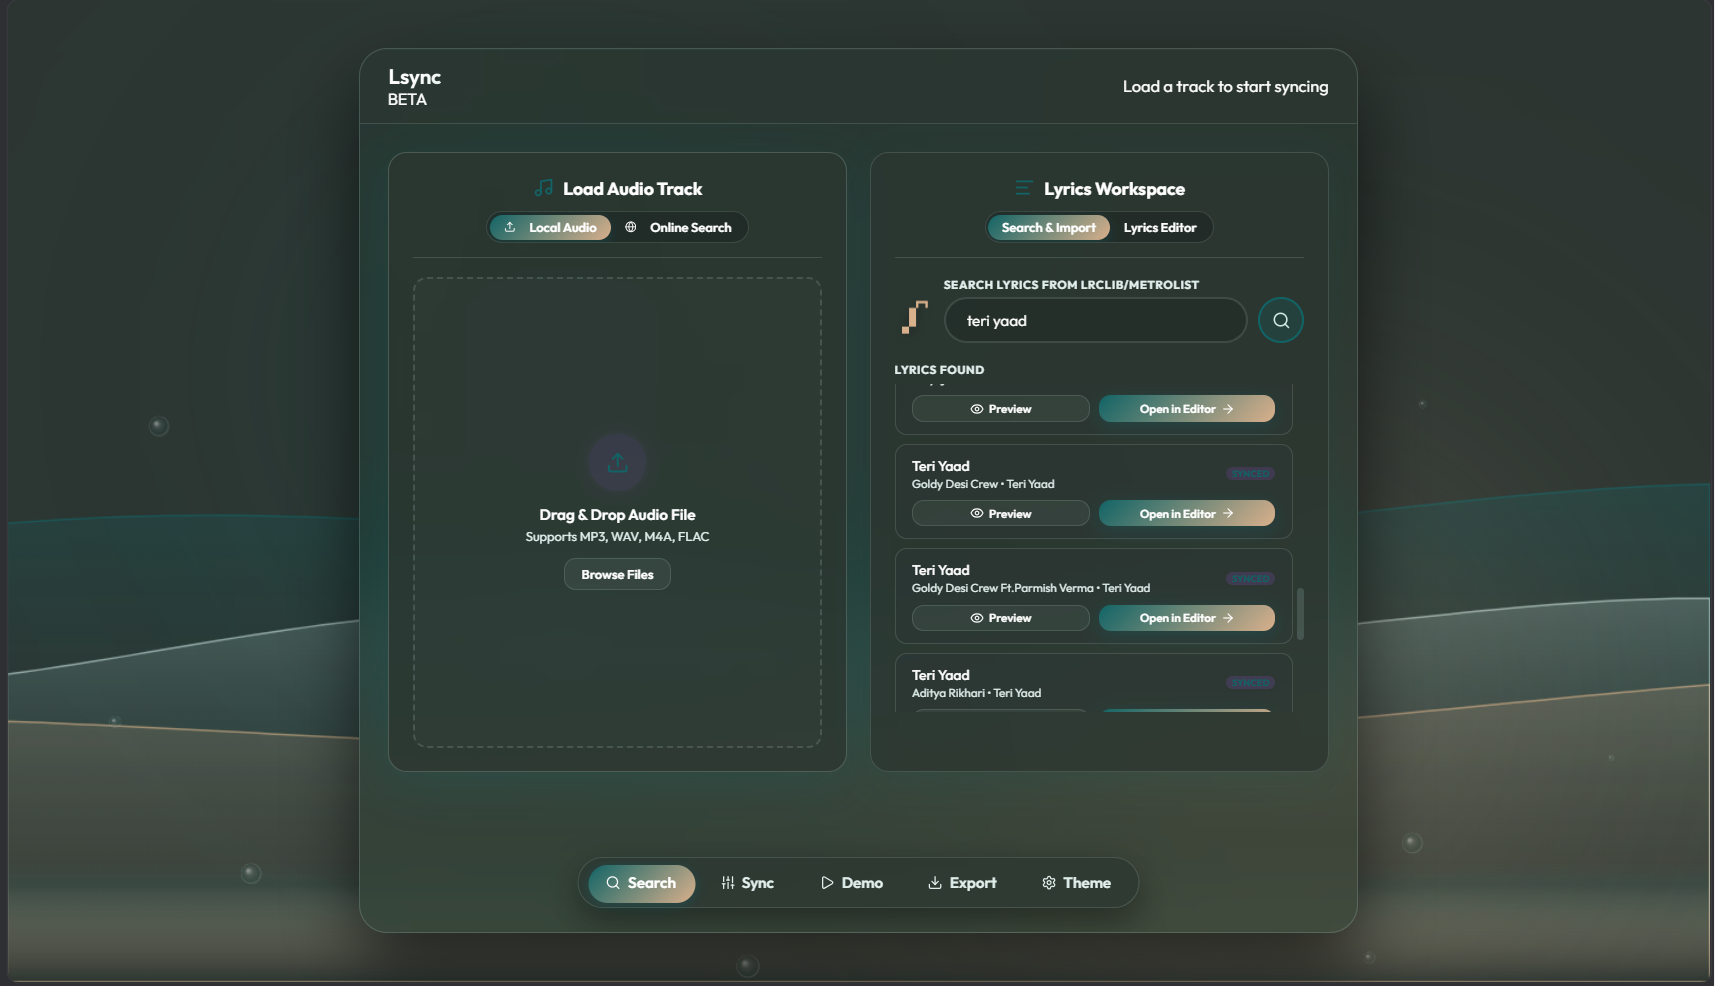
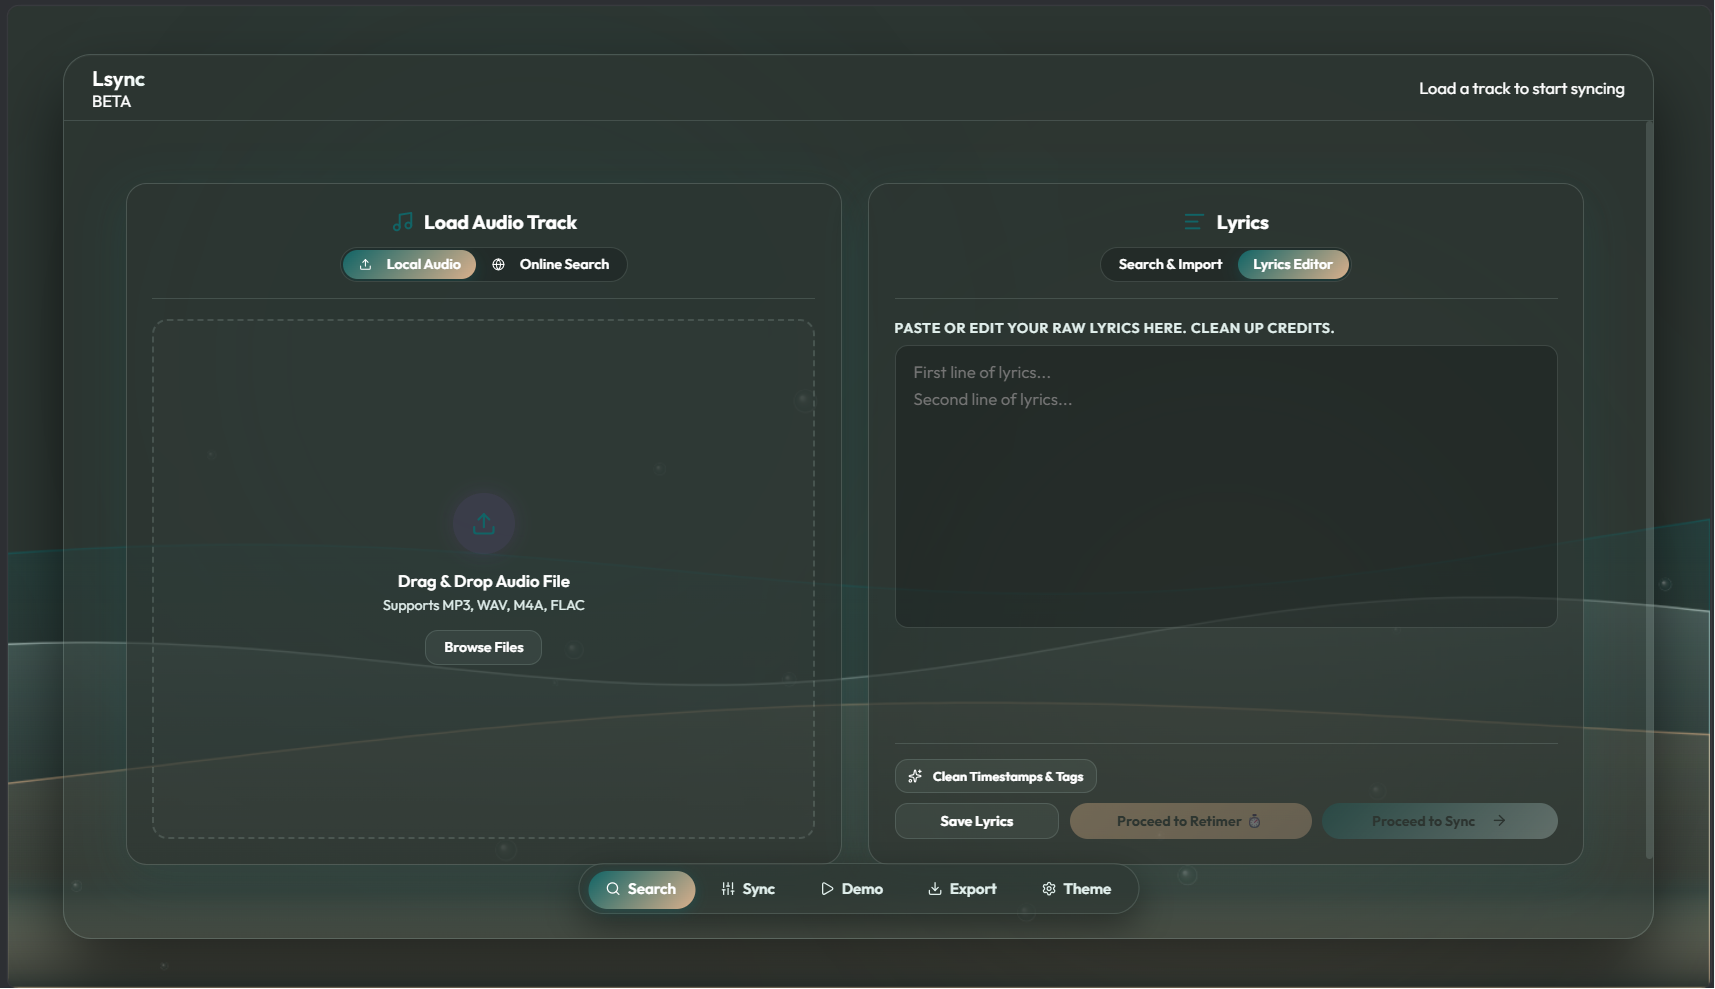
Updated_README_with_Desktop_and_Mobile_Screenshots_All_Export_Formats_and_GNU_GPL3_Licensing

diff --git a/README.md b/README.md
@@ -1,77 +1,107 @@
-# Lsync — Modern Synchronized Lyrics Editor & Builder
+# 🎵 Lsync — Modern Synchronized Lyrics Editor & Builder
 
-> **Lsync** is a state-of-the-art, ultra-fast web application designed for music lovers, lyricists, and karaoke creators to build, edit, retime, and export line-by-line (`.lrc`) and word-by-word (`eLRC`) synchronized lyrics.
+> **Lsync** is a state-of-the-art, ultra-fast web application designed for music lovers, lyricists, karaoke creators, and audio editors to build, edit, retime, and export line-by-line (`.lrc`), word-by-word (`eLRC`), text (`.txt`), and Word document (`.doc`) synchronized lyrics.
 
 ---
 
 ### 🌐 Live Web Access
 
-Anyone on the web can access and use Lsync directly from their browser at:  
-**👉 [https://code4nigel.github.io/Lsync/](https://code4nigel.github.io/Lsync/)**
+Anyone on the web can access and use Lsync directly from their browser:  
+👉 **[https://code4nigel.github.io/Lsync/](https://code4nigel.github.io/Lsync/)**
 
 ---
 
-### 🖼 Visual Tour & Screenshots
+### 🖥 📱 Visual Tour & Interfaces (Desktop & Mobile)
 
-#### 1. 🔍 Search & Import Lyrics
-Search lyrics directly from open internet databases or paste plain text into the editor.
-![Search & Import Page](Images/Demonstartions/SS_search_page.png)
+Lsync features custom-crafted user interfaces designed for both **Desktop 💻** and **Mobile 📱** viewports, complete with a PUBG/BGMI-style ergonomic floating mobile controller dock.
 
-#### 2. ⚡ Real-Time Word & Line Synchronization
-Synchronize lyrics at 60 FPS with liquid wave visualizers, live audio controls, latency offset compensation, and 1-key hotkeys (`SPACE`, `S`, `M`, `E`, `Z`, `A`, `B`).
-![Sync Editor](Images/Demonstartions/SS_sync.png)
+#### 1. 🔍 Search & Import Lyrics Tab
+Search lyrics online via open databases (LRCLIB), import YouTube / YouTube Music links with automatic title/artist parsing and `⇄ Swap` tool, or clean existing LRC tags with `🧹 Clean Timestamps & Tags`.
+
+| Desktop View 💻 | Mobile View 📱 |
+| :---: | :---: |
+| ![Search Page Desktop](Images/Demonstartions/SS_search_page.png) | ![Search Page Mobile](Images/Demonstartions/ss_search_tab.jpg) |
+
+---
+
+#### 2. ⚡ Real-Time Word & Line Synchronization Tab
+Sync lyrics at 60 FPS with live audio playback, liquid glass visualizer, latency offset compensation, playback speed controls, and 1-tap thumb controls.
+
+| Desktop View 💻 | Mobile View 📱 |
+| :---: | :---: |
+| ![Sync Tab Desktop](Images/Demonstartions/SS_sync.png) | ![Sync Tab Mobile](Images/Demonstartions/ss_sync_tab.jpg) |
+
+---
 
 #### 3. ⏱ Retimer & Precision Time Shift Tool
-Shift entire song timing forward or backward by custom minutes, seconds, and milliseconds with side-by-side comparison.
-![Retimer & Reshift Tool](Images/Demonstartions/SS_reshink_timer.png)
+Shift entire song timings forward or backward by custom milliseconds or seconds with live side-by-side demo testing.
 
-#### 4. 🎤 Live Demo Lyrics Player
-Preview synced lyrics in real-time with smooth karaoke highlight animations and video/audio background sync.
-![Demo Lyrics Player](Images/Demonstartions/SS_demo_page.png)
-
-#### 5. 📄 Dual LbL & WbW Export Engine
-Export and copy synchronized lyrics in standard **Line-by-Line (LbL)** `[mm:ss.xx]` or enhanced **Word-by-Word (WbW)** `<mm:ss.xx>` formats.
-![Export Options](Images/Demonstartions/SS_export.png)
+| Retimer & Time Shift Tool ⏱ |
+| :---: |
+| ![Retimer Tool Desktop](Images/Demonstartions/SS_reshink_timer.png) |
 
 ---
 
-### ✨ Key Features
+#### 4. 🎤 Live Demo Karaoke Player Tab
+Preview synced lyrics in real-time with smooth karaoke highlight animations and video/audio background sync.
 
-- **⚡ 60 FPS Audio Visualizer:** Liquid wave canvas rendering reacting to live audio playback.
-- **🎤 Word-by-Word & Line-by-Line Syncing:** Supports standard line timestamps `[mm:ss.xx]` and inline word tags `<mm:ss.xx>`.
-- **⏱ Retimer Mode:** Precision latency shifting across entire tracks with live side-by-side demo testing.
+| Desktop View 💻 | Mobile View 📱 |
+| :---: | :---: |
+| ![Demo Tab Desktop](Images/Demonstartions/SS_demo_page.png) | ![Demo Tab Mobile](Images/Demonstartions/ss_demo_tab.jpg) |
+
+---
+
+#### 5. 📄 Export & Format Generator Tab
+Export and download synchronized lyrics in standard **Line-by-Line (LbL)** `[mm:ss.xx]`, enhanced **Word-by-Word (WbW)** `<mm:ss.xx>`, plain text `.txt`, and Word `.doc` formats.
+
+| Desktop View 💻 | Mobile View 📱 |
+| :---: | :---: |
+| ![Export Tab Desktop](Images/Demonstartions/SS_export.png) | ![Export Tab Mobile](Images/Demonstartions/ss_export_tab.jpg) |
+
+---
+
+#### 6. 🎨 Personalization & Themes Tab
+Customize UI scale, workspace font size, audio volume, and liquid glass background visualizers (Waves, Stars, Nebula, Grid).
+
+| Desktop View 💻 | Mobile View 📱 |
+| :---: | :---: |
+| ![Theme Tab Desktop](Images/Demonstartions/SS_theme_page.png) | ![Theme Tab Mobile](Images/Demonstartions/ss_theme.jpg) |
+
+---
+
+### ✨ Key Features & Enhancements
+
+- **⚡ 60 FPS Audio Visualizer:** Liquid glass canvas rendering reacting to live audio playback.
+- **📱 Ergonomic Floating Mobile Controller Dock:** PUBG/BGMI-style bottom floating HUD for 2-thumb mobile syncing (`PLAY`, `BREAK [M]`, `UNDO [Z]`, `STAMP [S]`, `END [E]`, `SKIP [D]`, `🔁 LOOP`, `⚙ OPTIONS`).
+- **🎵 YouTube Title Auto-Fill & `⇄ Swap` Button:** Automatically extracts song title & artist name from YouTube / YTM URLs with quick swap capability.
+- **🧹 Clean Timestamps & Tags:** Converts raw synced LRC files into clean plain text lines with 1 click.
+- **⏱ Retimer & Time Shift Mode:** Precision millisecond & second time-shifting across entire tracks or selected line sections.
+- **🎛 Latency & Speed Controls with Reset Buttons:** Adjust latency offset (default -100ms) and playback speed (0.4x to 1.0x) with instant reset buttons.
+- **📏 Lyrics Font Size Slider:** Change lyrics workspace font size (default 22px on mobile, 28px on desktop) directly inside Sync Options or Theme tab.
+- **📄 Multi-Format Exporter:**
+  - **LRC (`.lrc`)** — Standard Line-by-Line & Enhanced Word-by-Word.
+  - **JSON (`.json`)** — Structured word & line timing metadata.
+  - **Text (`.txt`)** — Plain text, LbL timed text, and WbW tagged text.
+  - **Word Document (`.doc`)** — Formatted Microsoft Word & Google Docs exports.
 - **⌨ 1-Key Hotkey Workflow:**
   - `SPACE` — Play / Pause audio
   - `S` or `ENTER` — Stamp line / word timestamp
   - `Z` or `BACKSPACE` — Undo last timestamp
-  - `M` — Insert instrumental break `[mm:ss.xx] ♪`
+  - `M` — Insert instrumental music break `[mm:ss.xx] ♪`
   - `E` — Mark end of line timestamp
   - `D` — Skip current line
   - `A` / `B` — Set loop range markers
-- **📄 Dual Granularity Exporter:** 1-click `Copy LbL`, `Copy WbW`, `Download LbL (.lrc)`, and `Download WbW (.lrc)`.
-- **🌐 Open Data & Community Contribution:** Direct integration and submission links to LRCLIB, Musixmatch Curator Studio, and Genius.
-- **✨ NigelWeb Developer Profile:** Interactive Nigel Facts bubble cycling developer stories.
 
 ---
 
 ### 🌐 Connected Data Sources & References
 
-Lsync integrates with open web APIs and local media engines:
-
 | Provider / Engine | Description | Reference Link |
 | :--- | :--- | :--- |
 | **LRCLIB Database** | Open-source global database for plain and synced LRC lyrics | [lrclib.net](https://lrclib.net) |
 | **YouTube / Invidious / Piped** | Decentralized video streaming nodes & audio playback | [invidious.io](https://invidious.io) |
-| **Local Media Engine** | High-fidelity local browser audio engine (`.mp3`, `.flac`, `.wav`, `.m4a`) | Web Audio API |
+| **Web Audio API Engine** | High-fidelity local browser audio engine (`.mp3`, `.flac`, `.wav`, `.m4a`) | Web Audio API |
 | **eLRC Engine** | Native parser & builder for line and word timestamps | Enhanced LRC Spec |
-
----
-
-### ⚠ Device Compatibility Note
-
-> [!IMPORTANT]
-> **PC & Desktop:** Fully tested, optimized, and recommended for the best workflow experience.  
-> **Mobile Devices:** Touch layout is responsive and usable, but full mobile optimization is currently undergoing refinement.
 
 ---
 
